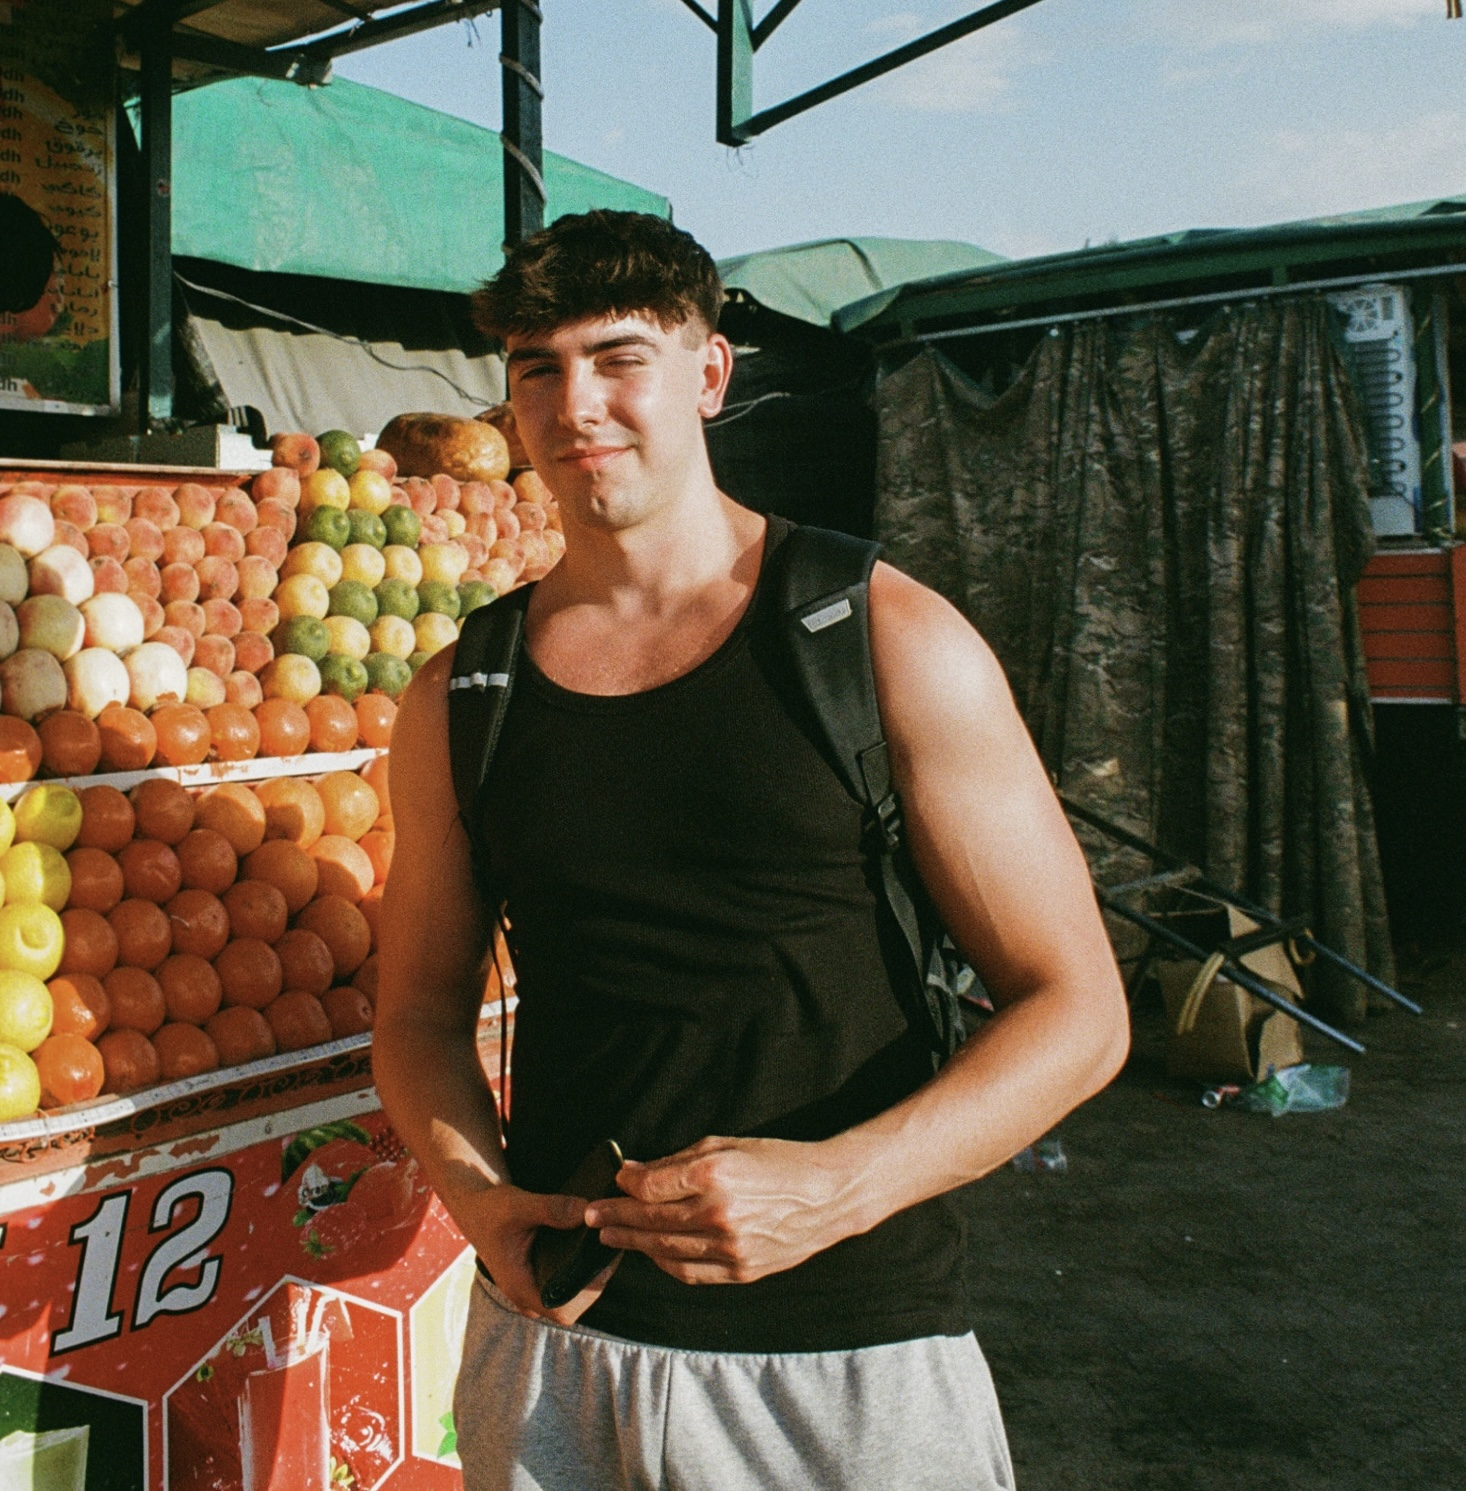
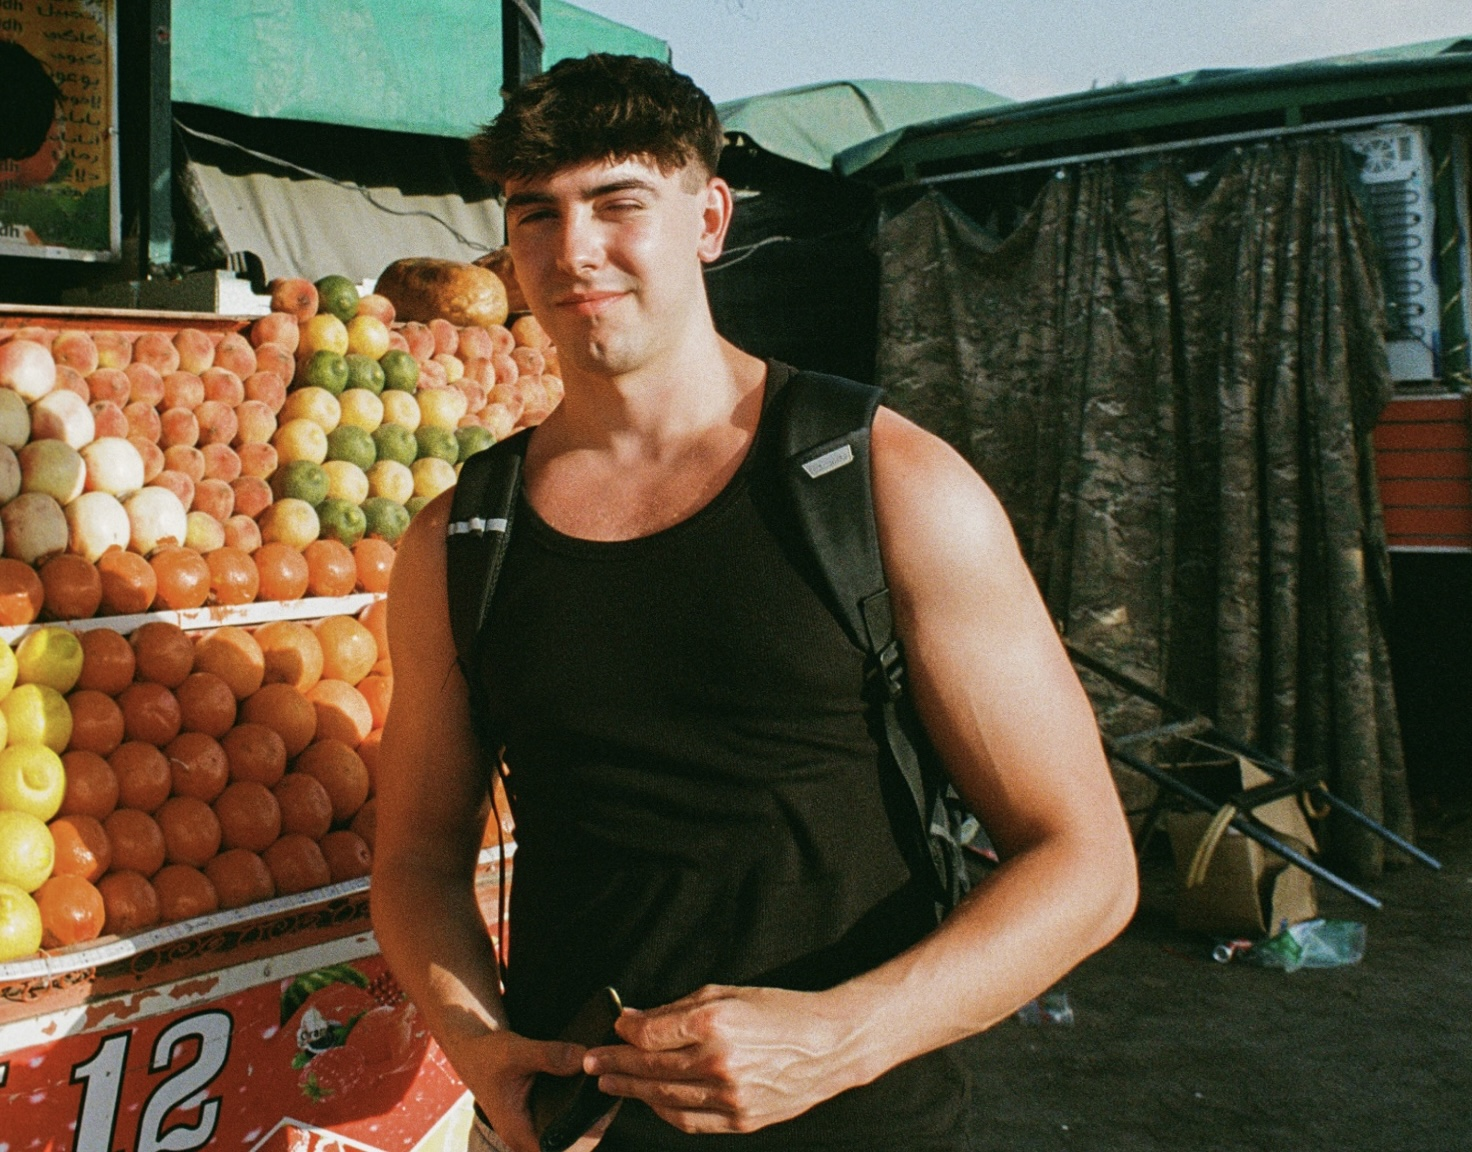
Use own crop for homepage photo at natural ratio

diff --git a/src/app/page.tsx b/src/app/page.tsx
@@ -159,7 +159,7 @@ function HomepageImage({ className = '' }: { className?: string }) {
     <img
       src="/images/oriol.jpeg"
       alt="Oriol Morros"
-      className={`${className} w-full aspect-[3/2] object-cover object-[center_30%]`}
+      className={`${className} w-full`}
     />
   )
 }
